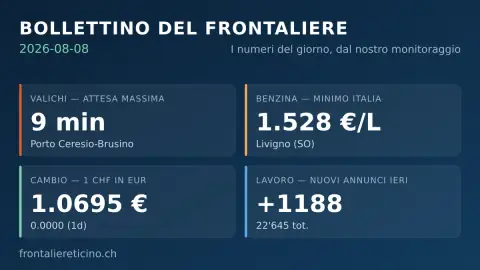
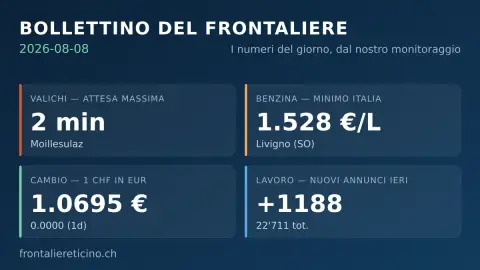
Daily brief edition 2026-08-08

Changed region(s): [[0.0625, 0.4148, 0.2812, 0.563], [0.5625, 0.8, 0.625, 0.8593]]

diff --git a/content/blog-body/fr/bollettino-frontaliere-2026-08-08.ts b/content/blog-body/fr/bollettino-frontaliere-2026-08-08.ts
@@ -1,8 +1,8 @@
 const bodyBollettinoFrontaliere20260808: Record<string, string> = {
-    'blog.article.bollettino-frontaliere-2026-08-08.body1': 'Bonjour — nous sommes samedi 8 août 2026. Voici le bulletin quotidien pour celles et ceux qui vivent d\'un côté de la frontière et travaillent de l\'autre : quatre chiffres mesurés aujourd\'hui par notre suivi — files aux douanes, essence, taux de change et emploi — chacun avec le lien vers sa page en direct.\n\n## Attentes aux douanes ce matin\n\nÇa roule ce matin : sur 141 passages surveillés, 104 ne signalent aucune file et l\'attente la plus longue n\'est que de **9 minutes** (Porto Ceresio-Brusino).\n\n| Douane | Attente | État |\n|---|---|---|\n| Porto Ceresio-Brusino | 9 min | ralenti |\n| Campione d\'Italia-Bissone | 8 min | ralenti |\n| Rheinfelden (Baden) – Rheinfelden AG, Alte Rheinbrücke | 3 min | fluide |\n| Traforo del Gran San Bernardo | 3 min | fluide |\n| Basel – Weil am Rhein, Hiltalingerstrasse | 2 min | fluide |\n\nLe trafic change d\'heure en heure — l\'état en direct de chaque douane est sur la [page du temps d\'attente](/fr/temps-attente-douane/).',
-    'blog.article.bollettino-frontaliere-2026-08-08.body2': '## Essence : où elle coûte le moins cher aujourd’hui\n\nSur 518 communes frontalières suivies, faire le plein revient aujourd\'hui moins cher en Suisse dans 71 cas et en Italie dans 66.\n\n| Commune (IT) | Sans plomb, prix minimum |\n|---|---|\n| Livigno (SO) | 1,528 €/L |\n| Sondrio (SO) | 1,839 €/L |\n| Veduggio con Colzano (MB) | 1,849 €/L |\n| Arcisate (VA) | 1,854 €/L |\n| Cantù (CO) | 1,859 €/L |\n\n📊 **Le bon côté pour un plein.** À **Livigno** (SO), l\'écart vaut aujourd\'hui **25,25 € sur un plein de 50 litres** (1,528 €/L en Italie contre 2,033 €/L à la station suisse la plus proche).\n\nLa station suisse la moins chère aujourd\'hui est **Alpina Tankstelle** (1,42 CHF/L, ≈ 1,519 €/L), près de Curon Venosta (BZ).\n\nLes prix commune par commune, mis à jour chaque jour : [prix de l\'essence à la frontière, aujourd\'hui](/fr/prix-essence-suisse/aujourd-hui/).',
+    'blog.article.bollettino-frontaliere-2026-08-08.body1': 'Bonjour — nous sommes samedi 8 août 2026. Voici le bulletin quotidien pour celles et ceux qui vivent d\'un côté de la frontière et travaillent de l\'autre : quatre chiffres mesurés aujourd\'hui par notre suivi — files aux douanes, essence, taux de change et emploi — chacun avec le lien vers sa page en direct.\n\n## Attentes aux douanes ce matin\n\nÇa roule ce matin : sur 141 passages surveillés, 121 ne signalent aucune file et l\'attente la plus longue n\'est que de **2 minutes** (Moillesulaz).\n\n| Douane | Attente | État |\n|---|---|---|\n| Moillesulaz | 2 min | fluide |\n| Porto Ceresio-Brusino | 2 min | fluide |\n| Traforo del Gran San Bernardo | 2 min | fluide |\n| Bad Säckingen – Stein AG | 1 min | fluide |\n| Basel – Weil am Rhein, Freiburgerstrasse | 1 min | fluide |\n\nLe trafic change d\'heure en heure — l\'état en direct de chaque douane est sur la [page du temps d\'attente](/fr/temps-attente-douane/).',
+    'blog.article.bollettino-frontaliere-2026-08-08.body2': '## Essence : où elle coûte le moins cher aujourd’hui\n\nSur 518 communes frontalières suivies, faire le plein revient aujourd\'hui moins cher en Suisse dans 46 cas et en Italie dans 95.\n\n| Commune (IT) | Sans plomb, prix minimum |\n|---|---|\n| Livigno (SO) | 1,528 €/L |\n| Sondrio (SO) | 1,839 €/L |\n| Veduggio con Colzano (MB) | 1,849 €/L |\n| Arcisate (VA) | 1,854 €/L |\n| Cantù (CO) | 1,859 €/L |\n\n📊 **Le bon côté pour un plein.** À **Livigno** (SO), l\'écart vaut aujourd\'hui **25,25 € sur un plein de 50 litres** (1,528 €/L en Italie contre 2,033 €/L à la station suisse la plus proche).\n\nLa station suisse la moins chère aujourd\'hui est **Alpina Tankstelle** (1,42 CHF/L, ≈ 1,519 €/L), près de Curon Venosta (BZ).\n\nLes prix commune par commune, mis à jour chaque jour : [prix de l\'essence à la frontière, aujourd\'hui](/fr/prix-essence-suisse/aujourd-hui/).',
     'blog.article.bollettino-frontaliere-2026-08-08.body3': '## Taux de change franc–euro\n\nUn franc vaut **1,0695 €** (clôture du 2026-08-08). Par rapport à la veille il est stable ; sur sept jours, la variation est de -0,0046 €.\n\n💡 Quand on gagne en francs et qu\'on dépense en euros, le taux fait partie du salaire : sur 4 000 CHF, un centime de variation vaut 40 € par mois. Le [calculateur de salaire net](/fr/calculer-salaire/) et le [comparatif des services de change](/fr/comparaison-services/taux-change-chf-eur/) font le calcul pour votre cas.',
-    'blog.article.bollettino-frontaliere-2026-08-08.body4': '## Emploi : les chiffres d’hier\n\nHier, **1 188 nouvelles offres d\'emploi** en Suisse sont arrivées sur notre job board ; 4 869 sur les sept derniers jours. Au total, **22 645** annonces sont actives, de 857 entreprises.\n\nFiltrez par canton, secteur et ville : [trouver un emploi au Tessin et en Suisse](/fr/trouver-emploi-tessin/).\n\n## Comment naît ce bulletin\n\nAucun des chiffres ci-dessus ne vient d’un flux d’agence — c’est notre propre suivi : files échantillonnées plusieurs fois par heure à chaque passage frontalier suisse, prix des carburants dans les communes frontalières italiennes et aux stations suisses proches, série officielle quotidienne CHF/EUR et crawlers de notre job board. Le bulletin sort tôt chaque matin, avant les trajets pendulaires ; les chiffres sont un instantané au moment de la publication, les pages liées restent en direct toute la journée.',
+    'blog.article.bollettino-frontaliere-2026-08-08.body4': '## Emploi : les chiffres d’hier\n\nHier, **1 188 nouvelles offres d\'emploi** en Suisse sont arrivées sur notre job board ; 4 867 sur les sept derniers jours. Au total, **22 711** annonces sont actives, de 859 entreprises.\n\nFiltrez par canton, secteur et ville : [trouver un emploi au Tessin et en Suisse](/fr/trouver-emploi-tessin/).\n\n## Comment naît ce bulletin\n\nAucun des chiffres ci-dessus ne vient d’un flux d’agence — c’est notre propre suivi : files échantillonnées plusieurs fois par heure à chaque passage frontalier suisse, prix des carburants dans les communes frontalières italiennes et aux stations suisses proches, série officielle quotidienne CHF/EUR et crawlers de notre job board. Le bulletin sort tôt chaque matin, avant les trajets pendulaires ; les chiffres sont un instantané au moment de la publication, les pages liées restent en direct toute la journée.',
     'blog.article.bollettino-frontaliere-2026-08-08.faq': '[{"q":"Quand paraît le bulletin quotidien du frontalier ?","a":"Tôt chaque matin, avant l\'heure de pointe. Cette édition date du 8 août 2026, avec des données collectées dans les heures précédant la publication."},{"q":"D’où viennent les données ?","a":"Du suivi propriétaire de frontaliereticino.ch : relevé des files à chaque passage frontalier suisse, prix des carburants dans les communes frontalières, série quotidienne CHF/EUR et crawlers du job board. Aucune donnée de seconde main."},{"q":"Les chiffres restent-ils valables toute la journée ?","a":"Non — ce sont des instantanés au moment de la publication. Pour l’état en temps réel, utilisez les pages en direct liées dans chaque section."}]',
 };
 

diff --git a/content/blog-body/de/bollettino-frontaliere-2026-08-08.ts b/content/blog-body/de/bollettino-frontaliere-2026-08-08.ts
@@ -1,8 +1,8 @@
 const bodyBollettinoFrontaliere20260808: Record<string, string> = {
-    'blog.article.bollettino-frontaliere-2026-08-08.body1': 'Guten Morgen — heute ist Samstag, der 8. August 2026. Das ist das tägliche Bulletin für alle, die auf der einen Seite der Grenze wohnen und auf der anderen arbeiten: vier heute gemessene Zahlen — Staus an den Übergängen, Benzin, Wechselkurs und Arbeitsmarkt — jeweils mit Link zur Live-Seite.\n\n## Wartezeiten an der Grenze heute Morgen\n\nHeute Morgen läuft es: Von 141 überwachten Übergängen melden 104 keine Warteschlange, die längste Wartezeit beträgt nur **9 Minuten** (Porto Ceresio-Brusino).\n\n| Übergang | Wartezeit | Status |\n|---|---|---|\n| Porto Ceresio-Brusino | 9 Min. | stockend |\n| Campione d\'Italia-Bissone | 8 Min. | stockend |\n| Rheinfelden (Baden) – Rheinfelden AG, Alte Rheinbrücke | 3 Min. | flüssig |\n| Traforo del Gran San Bernardo | 3 Min. | flüssig |\n| Basel – Weil am Rhein, Hiltalingerstrasse | 2 Min. | flüssig |\n\nDer Verkehr ändert sich stündlich — der Live-Status jedes Übergangs steht auf der [Seite zur Wartezeit an der Grenze](/de/wartezeit-grenze/).',
-    'blog.article.bollettino-frontaliere-2026-08-08.body2': '## Benzin: Wo es heute am wenigsten kostet\n\nIn 518 überwachten Grenzgemeinden lohnt sich das Tanken heute in 71 Fällen in der Schweiz und in 66 in Italien.\n\n| Gemeinde (IT) | Bleifrei, Tiefstpreis |\n|---|---|\n| Livigno (SO) | 1.528 €/L |\n| Sondrio (SO) | 1.839 €/L |\n| Veduggio con Colzano (MB) | 1.849 €/L |\n| Arcisate (VA) | 1.854 €/L |\n| Cantù (CO) | 1.859 €/L |\n\n📊 **Die richtige Seite für eine volle Tankfüllung.** In **Livigno** (SO) ist die Differenz heute **25.25 € pro 50-Liter-Tank** wert (1.528 €/L in Italien gegenüber 2.033 €/L an der nächsten Schweizer Tankstelle).\n\nDie günstigste Schweizer Tankstelle ist heute **Alpina Tankstelle** (1.42 CHF/L, ≈ 1.519 €/L), bei Curon Venosta (BZ).\n\nPreise Gemeinde für Gemeinde, täglich aktualisiert: [Benzinpreise an der Grenze, heute](/de/benzinpreis-schweiz/heute/).',
+    'blog.article.bollettino-frontaliere-2026-08-08.body1': 'Guten Morgen — heute ist Samstag, der 8. August 2026. Das ist das tägliche Bulletin für alle, die auf der einen Seite der Grenze wohnen und auf der anderen arbeiten: vier heute gemessene Zahlen — Staus an den Übergängen, Benzin, Wechselkurs und Arbeitsmarkt — jeweils mit Link zur Live-Seite.\n\n## Wartezeiten an der Grenze heute Morgen\n\nHeute Morgen läuft es: Von 141 überwachten Übergängen melden 121 keine Warteschlange, die längste Wartezeit beträgt nur **2 Minuten** (Moillesulaz).\n\n| Übergang | Wartezeit | Status |\n|---|---|---|\n| Moillesulaz | 2 Min. | flüssig |\n| Porto Ceresio-Brusino | 2 Min. | flüssig |\n| Traforo del Gran San Bernardo | 2 Min. | flüssig |\n| Bad Säckingen – Stein AG | 1 Min. | flüssig |\n| Basel – Weil am Rhein, Freiburgerstrasse | 1 Min. | flüssig |\n\nDer Verkehr ändert sich stündlich — der Live-Status jedes Übergangs steht auf der [Seite zur Wartezeit an der Grenze](/de/wartezeit-grenze/).',
+    'blog.article.bollettino-frontaliere-2026-08-08.body2': '## Benzin: Wo es heute am wenigsten kostet\n\nIn 518 überwachten Grenzgemeinden lohnt sich das Tanken heute in 46 Fällen in der Schweiz und in 95 in Italien.\n\n| Gemeinde (IT) | Bleifrei, Tiefstpreis |\n|---|---|\n| Livigno (SO) | 1.528 €/L |\n| Sondrio (SO) | 1.839 €/L |\n| Veduggio con Colzano (MB) | 1.849 €/L |\n| Arcisate (VA) | 1.854 €/L |\n| Cantù (CO) | 1.859 €/L |\n\n📊 **Die richtige Seite für eine volle Tankfüllung.** In **Livigno** (SO) ist die Differenz heute **25.25 € pro 50-Liter-Tank** wert (1.528 €/L in Italien gegenüber 2.033 €/L an der nächsten Schweizer Tankstelle).\n\nDie günstigste Schweizer Tankstelle ist heute **Alpina Tankstelle** (1.42 CHF/L, ≈ 1.519 €/L), bei Curon Venosta (BZ).\n\nPreise Gemeinde für Gemeinde, täglich aktualisiert: [Benzinpreise an der Grenze, heute](/de/benzinpreis-schweiz/heute/).',
     'blog.article.bollettino-frontaliere-2026-08-08.body3': '## Wechselkurs Franken–Euro\n\nEin Franken ist **1.0695 €** wert (Schluss 2026-08-08). Gegenüber dem Vortag ist er stabil; über sieben Tage beträgt die Veränderung -0.0046 €.\n\n💡 Wer in Franken verdient und in Euro ausgibt, für den IST der Kurs ein Teil des Lohns: Bei 4.000 CHF ist ein Rappen Bewegung 40 € im Monat wert. Der [Nettolohn-Rechner](/de/gehalt-berechnen/) und der [Vergleich der Wechseldienste](/de/service-vergleich/chf-eur-wechselkurs/) rechnen Ihren Fall durch.',
-    'blog.article.bollettino-frontaliere-2026-08-08.body4': '## Arbeitsmarkt: die Zahlen von gestern\n\nGestern kamen **1\'188 neue Stellenangebote** in der Schweiz auf unser Job-Board; in den letzten sieben Tagen 4\'869. Insgesamt sind **22\'645** Anzeigen aktiv, von 857 Unternehmen.\n\nNach Kanton, Branche und Stadt filtern: [Jobs im Tessin und in der Schweiz](/de/jobs-im-tessin/).\n\n## Wie dieses Bulletin entsteht\n\nKeine der Zahlen oben stammt aus einem Agentur-Feed — es ist unsere eigene Messung: mehrmals pro Stunde erfasste Warteschlangen an jedem Schweizer Grenzübergang, Kraftstoffpreise in den italienischen Grenzgemeinden und an nahen Schweizer Tankstellen, die offizielle tägliche CHF/EUR-Reihe und die Crawler unseres Job-Boards. Das Bulletin erscheint früh am Morgen, vor dem Pendlerverkehr; die Zahlen sind eine Momentaufnahme zum Zeitpunkt der Veröffentlichung, die verlinkten Seiten bleiben den ganzen Tag live.',
+    'blog.article.bollettino-frontaliere-2026-08-08.body4': '## Arbeitsmarkt: die Zahlen von gestern\n\nGestern kamen **1\'188 neue Stellenangebote** in der Schweiz auf unser Job-Board; in den letzten sieben Tagen 4\'867. Insgesamt sind **22\'711** Anzeigen aktiv, von 859 Unternehmen.\n\nNach Kanton, Branche und Stadt filtern: [Jobs im Tessin und in der Schweiz](/de/jobs-im-tessin/).\n\n## Wie dieses Bulletin entsteht\n\nKeine der Zahlen oben stammt aus einem Agentur-Feed — es ist unsere eigene Messung: mehrmals pro Stunde erfasste Warteschlangen an jedem Schweizer Grenzübergang, Kraftstoffpreise in den italienischen Grenzgemeinden und an nahen Schweizer Tankstellen, die offizielle tägliche CHF/EUR-Reihe und die Crawler unseres Job-Boards. Das Bulletin erscheint früh am Morgen, vor dem Pendlerverkehr; die Zahlen sind eine Momentaufnahme zum Zeitpunkt der Veröffentlichung, die verlinkten Seiten bleiben den ganzen Tag live.',
     'blog.article.bollettino-frontaliere-2026-08-08.faq': '[{"q":"Wann erscheint das Grenzgänger-Tagesbulletin?","a":"Jeden Morgen früh, vor der Hauptverkehrszeit. Diese Ausgabe ist vom 8. August 2026, mit Daten aus den Stunden vor der Veröffentlichung."},{"q":"Woher stammen die Daten?","a":"Aus der eigenen Messung von frontaliereticino.ch: Stau-Erfassung an jedem Schweizer Grenzübergang, Kraftstoffpreise in den Grenzgemeinden, die tägliche CHF/EUR-Reihe und die Crawler des Job-Boards. Keine Daten aus zweiter Hand."},{"q":"Gelten die Zahlen den ganzen Tag?","a":"Nein — sie sind eine Momentaufnahme zum Zeitpunkt der Veröffentlichung. Für den Echtzeit-Status nutzen Sie die in jedem Abschnitt verlinkten Live-Seiten."}]',
 };
 

diff --git a/content/blog-body/it/bollettino-frontaliere-2026-08-08.ts b/content/blog-body/it/bollettino-frontaliere-2026-08-08.ts
@@ -1,8 +1,8 @@
 const bodyBollettinoFrontaliere20260808: Record<string, string> = {
-    'blog.article.bollettino-frontaliere-2026-08-08.body1': 'Buongiorno, è sabato 8 agosto 2026. Questo è il bollettino quotidiano per chi vive da una parte del confine e lavora dall\'altra: quattro numeri misurati oggi dal nostro monitoraggio — code ai valichi, benzina, cambio e lavoro — con i link alle pagine live per seguirli durante la giornata.\n\n## Attese ai valichi stamattina\n\nStamattina si passa: su 141 valichi monitorati, 104 risultano senza coda e l\'attesa più lunga è di appena **9 minuti** (Porto Ceresio-Brusino).\n\n| Valico | Attesa | Stato |\n|---|---|---|\n| Porto Ceresio-Brusino | 9 min | rallentato |\n| Campione d\'Italia-Bissone | 8 min | rallentato |\n| Rheinfelden (Baden) – Rheinfelden AG, Alte Rheinbrücke | 3 min | scorrevole |\n| Traforo del Gran San Bernardo | 3 min | scorrevole |\n| Basel – Weil am Rhein, Hiltalingerstrasse | 2 min | scorrevole |\n\nIl traffico cambia di ora in ora: la situazione live di ogni valico è sulla [pagina del traffico alle dogane](/traffico-dogane/).',
-    'blog.article.bollettino-frontaliere-2026-08-08.body2': '## Benzina: dove costa meno oggi\n\nSu 518 comuni di confine monitorati, oggi conviene fare il pieno in Svizzera in 71 casi e in Italia in 66.\n\n| Comune (IT) | Verde, prezzo minimo |\n|---|---|\n| Livigno (SO) | 1.528 €/L |\n| Sondrio (SO) | 1.839 €/L |\n| Veduggio con Colzano (MB) | 1.849 €/L |\n| Arcisate (VA) | 1.854 €/L |\n| Cantù (CO) | 1.859 €/L |\n\n📊 **Il pieno giusto dal lato giusto.** A **Livigno** (SO) il divario oggi vale **25.25 € su un pieno da 50 litri** (1.528 €/L in Italia contro 2.033 €/L al distributore svizzero più vicino).\n\nIl distributore svizzero più economico oggi è **Alpina Tankstelle** (1.42 CHF/L, ≈ 1.519 €/L), vicino a Curon Venosta (BZ).\n\nPrezzi comune per comune, aggiornati ogni giorno: [prezzi benzina al confine, oggi](/prezzi-benzina/oggi/).',
+    'blog.article.bollettino-frontaliere-2026-08-08.body1': 'Buongiorno, è sabato 8 agosto 2026. Questo è il bollettino quotidiano per chi vive da una parte del confine e lavora dall\'altra: quattro numeri misurati oggi dal nostro monitoraggio — code ai valichi, benzina, cambio e lavoro — con i link alle pagine live per seguirli durante la giornata.\n\n## Attese ai valichi stamattina\n\nStamattina si passa: su 141 valichi monitorati, 121 risultano senza coda e l\'attesa più lunga è di appena **2 minuti** (Moillesulaz).\n\n| Valico | Attesa | Stato |\n|---|---|---|\n| Moillesulaz | 2 min | scorrevole |\n| Porto Ceresio-Brusino | 2 min | scorrevole |\n| Traforo del Gran San Bernardo | 2 min | scorrevole |\n| Bad Säckingen – Stein AG | 1 min | scorrevole |\n| Basel – Weil am Rhein, Freiburgerstrasse | 1 min | scorrevole |\n\nIl traffico cambia di ora in ora: la situazione live di ogni valico è sulla [pagina del traffico alle dogane](/traffico-dogane/).',
+    'blog.article.bollettino-frontaliere-2026-08-08.body2': '## Benzina: dove costa meno oggi\n\nSu 518 comuni di confine monitorati, oggi conviene fare il pieno in Svizzera in 46 casi e in Italia in 95.\n\n| Comune (IT) | Verde, prezzo minimo |\n|---|---|\n| Livigno (SO) | 1.528 €/L |\n| Sondrio (SO) | 1.839 €/L |\n| Veduggio con Colzano (MB) | 1.849 €/L |\n| Arcisate (VA) | 1.854 €/L |\n| Cantù (CO) | 1.859 €/L |\n\n📊 **Il pieno giusto dal lato giusto.** A **Livigno** (SO) il divario oggi vale **25.25 € su un pieno da 50 litri** (1.528 €/L in Italia contro 2.033 €/L al distributore svizzero più vicino).\n\nIl distributore svizzero più economico oggi è **Alpina Tankstelle** (1.42 CHF/L, ≈ 1.519 €/L), vicino a Curon Venosta (BZ).\n\nPrezzi comune per comune, aggiornati ogni giorno: [prezzi benzina al confine, oggi](/prezzi-benzina/oggi/).',
     'blog.article.bollettino-frontaliere-2026-08-08.body3': '## Cambio franco–euro\n\nUn franco vale **1.0695 €** (chiusura 2026-08-08). Rispetto al giorno precedente è stabile; su sette giorni la variazione è di -0.0046 €.\n\n💡 Per chi prende lo stipendio in franchi e spende in euro, il cambio È una parte dello stipendio: su 4.000 CHF, un centesimo di variazione vale 40 € al mese. Il [calcolatore dello stipendio netto](/calcola-stipendio/) e il [confronto dei servizi di cambio](/compara-servizi/cambio-franco-euro/) fanno i conti sul tuo caso.',
-    'blog.article.bollettino-frontaliere-2026-08-08.body4': '## Lavoro: i numeri di ieri\n\nIeri sono arrivati **1188 nuovi annunci** di lavoro in Svizzera sul nostro job board; negli ultimi sette giorni 4869. In totale gli annunci attivi sono **22\'645**, da 857 aziende.\n\nLe offerte si filtrano per cantone, settore e città: [cerca lavoro in Ticino e in Svizzera](/cerca-lavoro-ticino/).\n\n## Come nasce questo bollettino\n\nI numeri qui sopra non arrivano da un\'agenzia: sono il nostro monitoraggio. Le attese ai valichi vengono campionate più volte l\'ora su tutti i valichi di confine svizzeri; i prezzi dei carburanti coprono i comuni italiani di fascia e i distributori svizzeri vicini al confine; il cambio segue la serie ufficiale giornaliera; gli annunci arrivano dai crawler del nostro job board. Il bollettino esce ogni mattina presto, prima del pendolarismo — i numeri fotografano la situazione al momento della pubblicazione, le pagine linkate restano live tutto il giorno.',
+    'blog.article.bollettino-frontaliere-2026-08-08.body4': '## Lavoro: i numeri di ieri\n\nIeri sono arrivati **1188 nuovi annunci** di lavoro in Svizzera sul nostro job board; negli ultimi sette giorni 4867. In totale gli annunci attivi sono **22\'711**, da 859 aziende.\n\nLe offerte si filtrano per cantone, settore e città: [cerca lavoro in Ticino e in Svizzera](/cerca-lavoro-ticino/).\n\n## Come nasce questo bollettino\n\nI numeri qui sopra non arrivano da un\'agenzia: sono il nostro monitoraggio. Le attese ai valichi vengono campionate più volte l\'ora su tutti i valichi di confine svizzeri; i prezzi dei carburanti coprono i comuni italiani di fascia e i distributori svizzeri vicini al confine; il cambio segue la serie ufficiale giornaliera; gli annunci arrivano dai crawler del nostro job board. Il bollettino esce ogni mattina presto, prima del pendolarismo — i numeri fotografano la situazione al momento della pubblicazione, le pagine linkate restano live tutto il giorno.',
     'blog.article.bollettino-frontaliere-2026-08-08.faq': '[{"q":"Quando esce il bollettino del frontaliere?","a":"Ogni mattina presto, prima dell\'ora di punta. Questa edizione è del 8 agosto 2026, con dati raccolti nelle ore precedenti la pubblicazione."},{"q":"Da dove arrivano i dati?","a":"Dal monitoraggio proprietario di frontaliereticino.ch: rilevamento delle code su tutti i valichi svizzeri, prezzi carburante nei comuni di confine, serie giornaliera del cambio CHF/EUR e crawler del job board. Nessun dato di seconda mano."},{"q":"I numeri restano validi tutta la giornata?","a":"No: fotografano il momento della pubblicazione. Per la situazione in tempo reale usa le pagine live linkate in ogni sezione, aggiornate durante tutta la giornata."}]',
 };
 

diff --git a/content/blog-body/en/bollettino-frontaliere-2026-08-08.ts b/content/blog-body/en/bollettino-frontaliere-2026-08-08.ts
@@ -1,8 +1,8 @@
 const bodyBollettinoFrontaliere20260808: Record<string, string> = {
-    'blog.article.bollettino-frontaliere-2026-08-08.body1': 'Good morning — it\'s Saturday, August 8, 2026. This is the daily brief for people who live on one side of the border and work on the other: four numbers measured today by our monitoring — border queues, fuel, the exchange rate and jobs — each with a link to its live page.\n\n## Border waits this morning\n\nSmooth crossing this morning: of 141 monitored crossings, 104 report no queue and the longest wait is just **9 minutes** (Porto Ceresio-Brusino).\n\n| Crossing | Wait | Status |\n|---|---|---|\n| Porto Ceresio-Brusino | 9 min | slow |\n| Campione d\'Italia-Bissone | 8 min | slow |\n| Rheinfelden (Baden) – Rheinfelden AG, Alte Rheinbrücke | 3 min | clear |\n| Traforo del Gran San Bernardo | 3 min | clear |\n| Basel – Weil am Rhein, Hiltalingerstrasse | 2 min | clear |\n\nTraffic shifts by the hour — every crossing\'s live status is on the [border traffic page](/en/border-wait/).',
-    'blog.article.bollettino-frontaliere-2026-08-08.body2': '## Fuel: where it costs least today\n\nAcross 518 monitored border municipalities, filling up is cheaper in Switzerland in 71 of them and in Italy in 66.\n\n| Municipality (IT) | Unleaded, lowest price |\n|---|---|\n| Livigno (SO) | €1.528/L |\n| Sondrio (SO) | €1.839/L |\n| Veduggio con Colzano (MB) | €1.849/L |\n| Arcisate (VA) | €1.854/L |\n| Cantù (CO) | €1.859/L |\n\n📊 **The right side for a full tank.** In **Livigno** (SO) today\'s gap is worth **€25.25 on a 50-litre tank** (€1.528/L in Italy vs €2.033/L at the nearest Swiss station).\n\nThe cheapest Swiss station today is **Alpina Tankstelle** (CHF 1.42/L, ≈ €1.519/L), near Curon Venosta (BZ).\n\nPrices town by town, updated daily: [border fuel prices today](/en/gasoline-price-switzerland/today/).',
+    'blog.article.bollettino-frontaliere-2026-08-08.body1': 'Good morning — it\'s Saturday, August 8, 2026. This is the daily brief for people who live on one side of the border and work on the other: four numbers measured today by our monitoring — border queues, fuel, the exchange rate and jobs — each with a link to its live page.\n\n## Border waits this morning\n\nSmooth crossing this morning: of 141 monitored crossings, 121 report no queue and the longest wait is just **2 minutes** (Moillesulaz).\n\n| Crossing | Wait | Status |\n|---|---|---|\n| Moillesulaz | 2 min | clear |\n| Porto Ceresio-Brusino | 2 min | clear |\n| Traforo del Gran San Bernardo | 2 min | clear |\n| Bad Säckingen – Stein AG | 1 min | clear |\n| Basel – Weil am Rhein, Freiburgerstrasse | 1 min | clear |\n\nTraffic shifts by the hour — every crossing\'s live status is on the [border traffic page](/en/border-wait/).',
+    'blog.article.bollettino-frontaliere-2026-08-08.body2': '## Fuel: where it costs least today\n\nAcross 518 monitored border municipalities, filling up is cheaper in Switzerland in 46 of them and in Italy in 95.\n\n| Municipality (IT) | Unleaded, lowest price |\n|---|---|\n| Livigno (SO) | €1.528/L |\n| Sondrio (SO) | €1.839/L |\n| Veduggio con Colzano (MB) | €1.849/L |\n| Arcisate (VA) | €1.854/L |\n| Cantù (CO) | €1.859/L |\n\n📊 **The right side for a full tank.** In **Livigno** (SO) today\'s gap is worth **€25.25 on a 50-litre tank** (€1.528/L in Italy vs €2.033/L at the nearest Swiss station).\n\nThe cheapest Swiss station today is **Alpina Tankstelle** (CHF 1.42/L, ≈ €1.519/L), near Curon Venosta (BZ).\n\nPrices town by town, updated daily: [border fuel prices today](/en/gasoline-price-switzerland/today/).',
     'blog.article.bollettino-frontaliere-2026-08-08.body3': '## CHF–EUR exchange rate\n\nOne franc buys **€1.0695** (close of 2026-08-08). Versus the previous day it is flat; over seven days the move is -0.0046 €.\n\n💡 If you earn francs and spend euros, the rate IS part of your salary: on CHF 4,000, one cent of movement is worth €40 a month. The [net salary calculator](/en/calculate-salary/) and the [currency-exchange comparison](/en/service-comparison/chf-eur-exchange-rate/) run the numbers for your case.',
-    'blog.article.bollettino-frontaliere-2026-08-08.body4': '## Jobs: yesterday’s numbers\n\n**1\'188 new Swiss job listings** landed on our job board yesterday; 4\'869 over the last seven days. Active listings now total **22\'645** from 857 companies.\n\nFilter by canton, sector and city: [find jobs in Ticino and Switzerland](/en/find-jobs-ticino/).\n\n## How this brief is made\n\nNone of the numbers above come from an agency feed — they are our own monitoring: border queues sampled several times an hour at every Swiss crossing, fuel prices across Italian border municipalities and nearby Swiss stations, the official daily CHF/EUR series, and our job-board crawlers. The brief goes out early each morning, before the commute; numbers are a snapshot at publication time, the linked pages stay live all day.',
+    'blog.article.bollettino-frontaliere-2026-08-08.body4': '## Jobs: yesterday’s numbers\n\n**1\'188 new Swiss job listings** landed on our job board yesterday; 4\'867 over the last seven days. Active listings now total **22\'711** from 859 companies.\n\nFilter by canton, sector and city: [find jobs in Ticino and Switzerland](/en/find-jobs-ticino/).\n\n## How this brief is made\n\nNone of the numbers above come from an agency feed — they are our own monitoring: border queues sampled several times an hour at every Swiss crossing, fuel prices across Italian border municipalities and nearby Swiss stations, the official daily CHF/EUR series, and our job-board crawlers. The brief goes out early each morning, before the commute; numbers are a snapshot at publication time, the linked pages stay live all day.',
     'blog.article.bollettino-frontaliere-2026-08-08.faq': '[{"q":"When is the cross-border daily brief published?","a":"Early every morning, before rush hour. This edition is dated August 8, 2026, with data collected in the hours before publication."},{"q":"Where does the data come from?","a":"From frontaliereticino.ch’s proprietary monitoring: queue sampling at every Swiss border crossing, fuel prices in border municipalities, the daily CHF/EUR series and our job-board crawlers. No second-hand data."},{"q":"Do the numbers stay valid all day?","a":"No — they are a snapshot at publication time. For real-time status use the live pages linked in each section, updated throughout the day."}]',
 };
 
